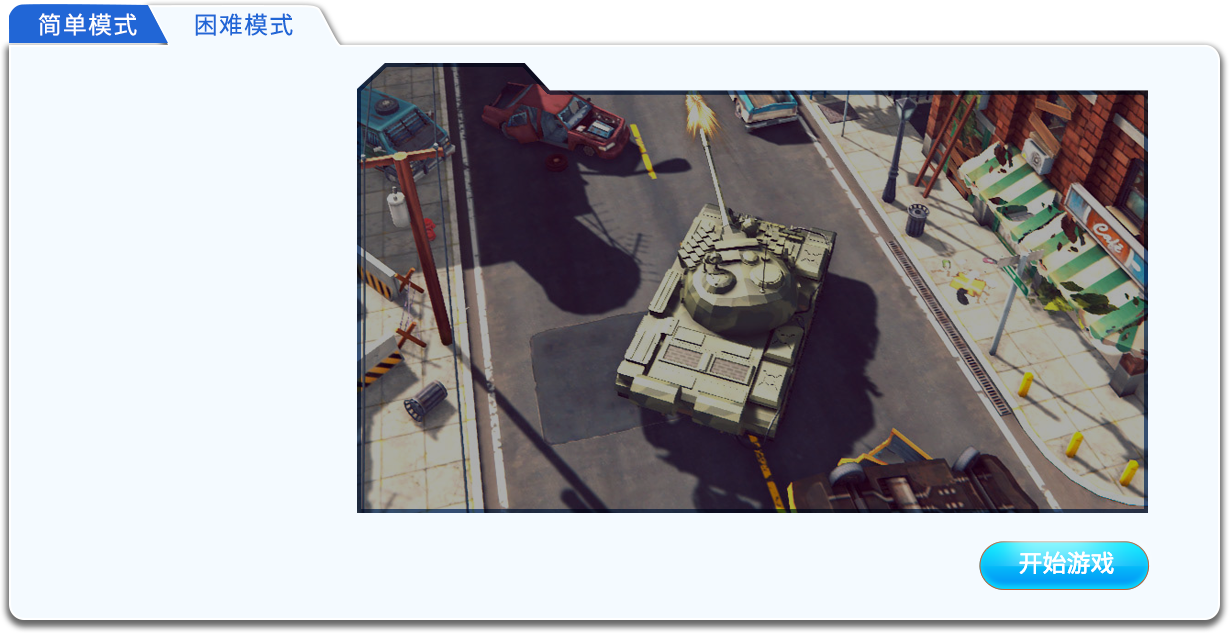
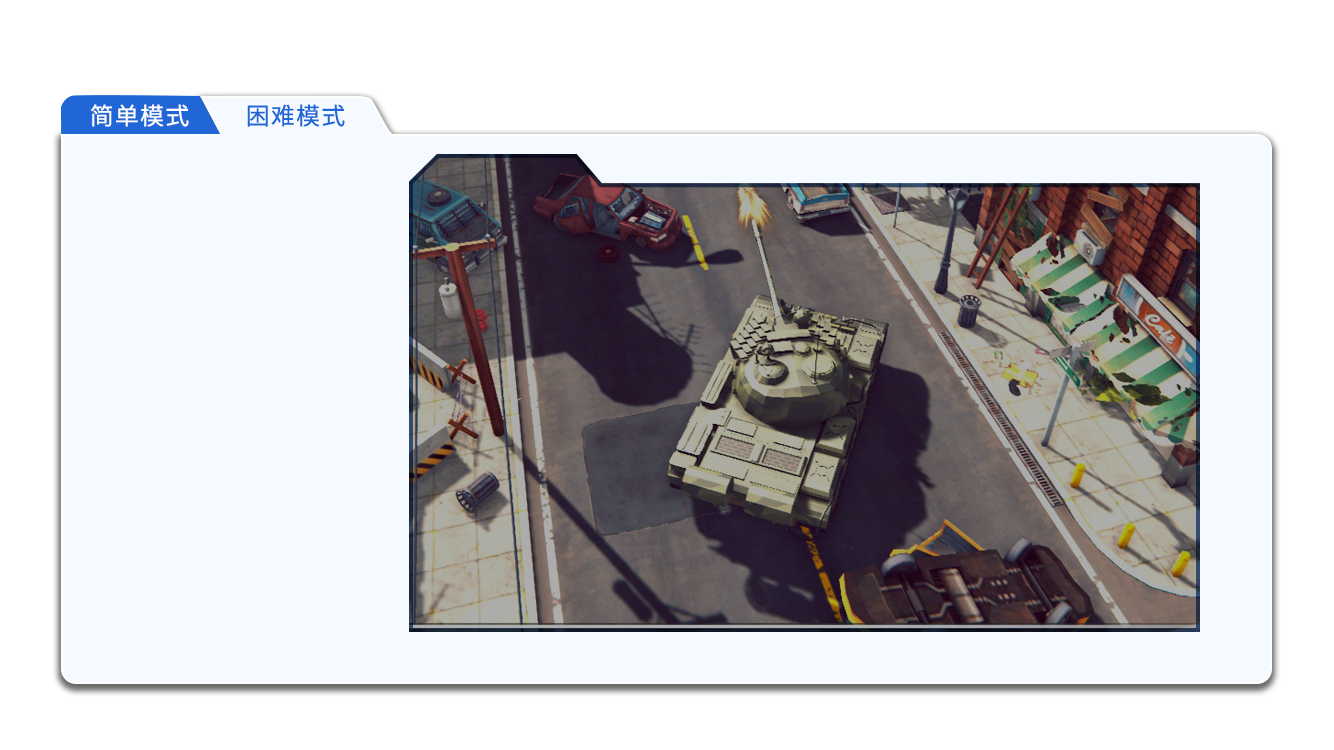
新增自由选关

diff --git a/websocket/src/main/resources/static/js/share/stage/mission.js b/websocket/src/main/resources/static/js/share/stage/mission.js
@@ -22,10 +22,19 @@ export default class Mission extends Stage {
             draw: function (ctx) {
                 ctx.displayCenterRate(
                     thisMission.roomInfo.hardMode ? "mission_hard" : "mission_easy",
-                    .5, .54,
-                    .92, .84);
+                    .5, .5,
+                    1, 1);
             }
         });
+
+        this.missionPos = [
+            {x: 784, y: 458},
+            {x: 784 + 365, y: 458},
+            {x: 784 + 365 * 2, y: 458},
+            {x: 950, y: 692},
+            {x: 950 + 380, y: 692}
+        ];
+        this.missionSize = 180;
 
         this.createMapSelected();
 
@@ -56,14 +65,6 @@ export default class Mission extends Stage {
         map.y = rect.y + (rect.h - map.h) / 2;
 
         const text = ["第一关", "第二关", "第三关", "第四关"];
-
-        this.missionPos = [
-            {x: 784, y: 408},
-            {x: 784 + 365, y: 408},
-            {x: 784 + 365 * 2, y: 408},
-            {x: 950, y: 642},
-            {x: 950 + 380, y: 642}
-        ];
 
         this.createItem({
             draw: function (ctx) {
@@ -155,8 +156,8 @@ export default class Mission extends Stage {
             const text = this.roomInfo.mapId + "-" + (i + 1);
             const starCount = this.getStarCount(i + 1);
 
-            ctx.displayCenter(starCount === -1 ? "mission_disable" : "mission", pos.x, pos.y, 180);
-            ctx.displayCenter("mission_rect", pos.x, pos.y, 180);
+            ctx.displayCenter(starCount === -1 ? "mission_disable" : "mission", pos.x, pos.y, this.missionSize);
+            ctx.displayCenter("mission_rect", pos.x, pos.y, this.missionSize);
 
             ctx.fillText(text,
                 pos.x + Resource.getOffset().x,
@@ -196,7 +197,7 @@ export default class Mission extends Stage {
         const key = this.generateKey(this.roomInfo.mapId, subId, this.roomInfo.hardMode);
         if (this.starMap.has(key)) {
             return this.starMap.get(key);
-        } else if (subId === 1) {
+        } else if (subId <= 1 || this.getStarCount(subId - 1) > 0) {
             return 0;
         } else {
             return -1;
@@ -204,28 +205,30 @@ export default class Mission extends Stage {
     }
 
     initControlEvent() {
-        const thisMission = this;
-
         //start game
-        this.createControl({
-            leftTop: {
-                x: 1486,
-                y: 904
-            },
-            size: {
-                w: 240,
-                h: 70
-            },
-            callBack: function () {
-                //困难模式未解锁的情况
-                if (thisMission.roomInfo.mapId < 1) {
-                    Common.addMessage("请先解锁普通模式!", "#F00");
-                    return;
+        for (let i = 0; i < 5; ++i) {
+            this.createControl({
+                leftTop: {
+                    x: this.missionPos[i].x - this.missionSize / 2,
+                    y: this.missionPos[i].y - this.missionSize / 2
+                },
+                size: {
+                    w: this.missionSize,
+                    h: this.missionSize
+                },
+                callBack: () => {
+                    if (this.roomInfo.mapId < 1) {
+                        return;
+                    }
+                    if (this.getStarCount(i + 1) === -1) {
+                        Common.addMessage("请先解锁前面的关卡!", "#F00");
+                        return;
+                    }
+                    this.roomInfo.subId = (i + 1);
+                    Common.nextStage(this.roomInfo);
                 }
-
-                Common.nextStage(thisMission.roomInfo);
-            }
-        });
+            })
+        }
 
         //back
         this.createControl({
@@ -252,9 +255,9 @@ export default class Mission extends Stage {
                 w: 192,
                 h: 50
             },
-            callBack: function () {
-                thisMission.roomInfo.hardMode = false;
-                thisMission.roomInfo.mapId = 1;
+            callBack: () => {
+                this.roomInfo.hardMode = false;
+                this.roomInfo.mapId = 1;
             }
         });
 
@@ -268,12 +271,12 @@ export default class Mission extends Stage {
                 w: 192,
                 h: 50
             },
-            callBack: function () {
-                thisMission.roomInfo.hardMode = true;
-                if (thisMission.hasLock(0)) {
-                    thisMission.roomInfo.mapId = 0;
+            callBack: () => {
+                this.roomInfo.hardMode = true;
+                if (this.hasLock(0)) {
+                    this.roomInfo.mapId = 0;
                 } else {
-                    thisMission.roomInfo.mapId = 1;
+                    this.roomInfo.mapId = 1;
                 }
             }
         });
